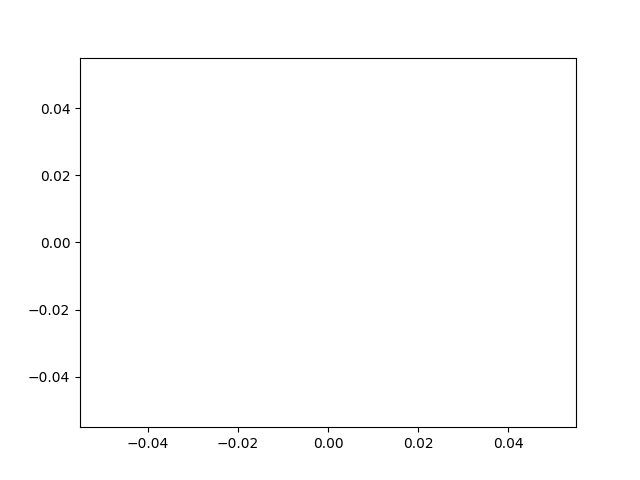
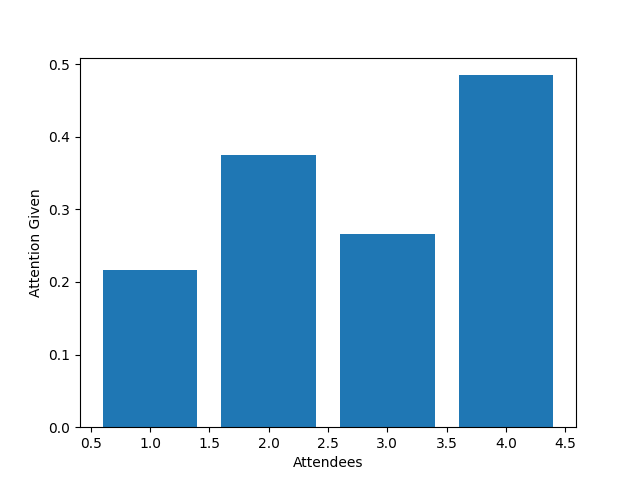
add graph labels and reverse negligence graph to attending graph

diff --git a/Drowsiness_Detection.py b/Drowsiness_Detection.py
@@ -31,7 +31,7 @@ predict = dlib.shape_predictor("models/shape_predictor_68_face_landmarks.dat")
 (lStart, lEnd) = face_utils.FACIAL_LANDMARKS_68_IDXS["left_eye"]
 (rStart, rEnd) = face_utils.FACIAL_LANDMARKS_68_IDXS["right_eye"]
 
-# print("Model Initialization Complete")
+print("Model Initialization Complete")
 
 
 MyApp = QtWidgets.QApplication(sys.argv)
@@ -42,7 +42,7 @@ monitor_width = Screen.width()
 monitor = {"top": 0, "left": 0, "width": monitor_width, "height": monitor_height}
 
 
-# print("Taking Screen Shots in 5 seconds")
+print("Taking Screen Shots in 5 seconds")
 
 now = time.time()
 
@@ -54,13 +54,13 @@ while 1 :
 
     if delta_time > 5 :
 
-        # print("Taking Screen shot")
+        print("Taking Screen shot")
 
         break
     
 img_initial_nump = np.array(mss.mss().grab(monitor))
 
-# print("Initial Screen Shot Taken")
+print("Initial Screen Shot Taken")
 
 
 def horizontalChecker ( i ) :
@@ -154,7 +154,7 @@ for i in range( len(boxes_in_a_row) - 1 ) :
         boxes_before_a_row += [ boxes_before_a_row[-1] + boxes_in_a_row[i] ]
 
 
-# print("Preprocessing Done")
+print("Preprocessing Done")
 
 
 while True:
@@ -181,7 +181,7 @@ while True:
             subjects = detect(gray, 0)
             if not subjects: 
                 flag[user_no] += 1
-                #print(flag)
+                print(flag)
                 
                 if flag[user_no] >= frame_check:
                     penalty[user_no] +=1
@@ -200,7 +200,7 @@ while True:
                 cv2.drawContours(user_img_nump, [rightEyeHull], -1, (0, 255, 0), 1)
                 if ear < thresh:
                     flag[user_no] += 1
-                    #print(flag)
+                    print(flag)
                     if flag[user_no] >= frame_check:
                         penalty[user_no] +=1
                 else:
@@ -219,17 +219,26 @@ while True:
     if keyboard.is_pressed("ctrl+alt+l"):
         break
 
-#print(negligence)
+print(negligence)
+for i in range ( len(negligence) ) :
+    negligence[i] = no_of_boxes - negligence[i]
 
 
 penalty_percent = [ ( total_time - penalty[i] )/total_time for i in range ( len(penalty) ) ]
 user_nos = [ i+1 for i in range(len(penalty)) ]
+
 plt.bar( user_nos , penalty_percent )
+plt.xlabel("Attendees")
+plt.ylabel("Attention Given")
 if os.path.isfile('analysis1.png'):
    os.remove('./static/analysis1.png')
 plt.savefig('./static/analysis1.png')
+
 plt.clf()
+
 plt.plot(negligence)
+plt.xlabel("time")
+plt.ylabel("People Attending")
 if os.path.isfile('analysis2.png'):
    os.remove('./static/analysis2.png')
 plt.savefig('./static/analysis2.png')
